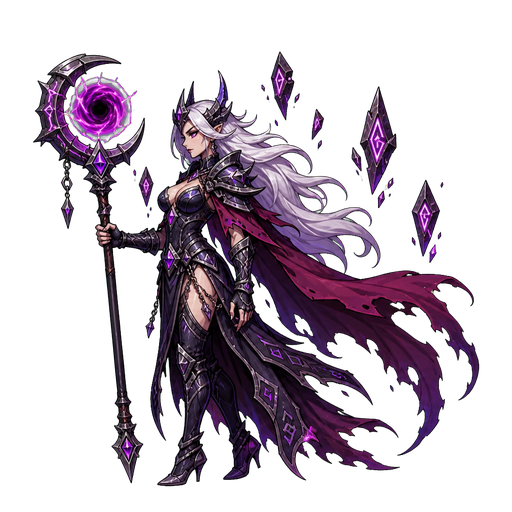
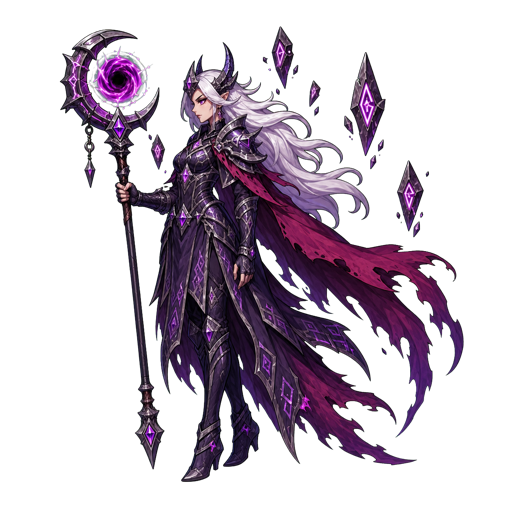
feat: animate grammar boss fighters

diff --git a/game2/index.html b/game2/index.html
@@ -59,7 +59,8 @@ canvas#c{position:absolute;inset:0;width:100%;height:100%;}
 /* ── CHARACTERS ── */
 #hero-wrap{position:absolute;left:8%;bottom:26%;transform-origin:bottom center;transition:left .35s cubic-bezier(.22,1,.36,1), transform .15s;}
 #boss-wrap{position:absolute;right:8%;bottom:26%;transform-origin:bottom center;transition:right .35s cubic-bezier(.22,1,.36,1), transform .15s;}
-#hero-img,#boss-img{background-repeat:no-repeat;background-position:0 0;transform-origin:bottom center;will-change:background-position,transform,filter;}
+#hero-wrap::after,#boss-wrap::after{content:"";position:absolute;z-index:0;left:50%;bottom:-5px;width:64%;height:15px;transform:translateX(-50%);border-radius:50%;background:radial-gradient(ellipse,rgba(0,0,0,.72) 0%,rgba(0,0,0,.38) 48%,transparent 74%);filter:blur(1px);}
+#hero-img,#boss-img{position:relative;z-index:1;background-repeat:no-repeat;background-position:0 0;transform-origin:bottom center;will-change:background-position,transform,filter;}
 #hero-img{filter:drop-shadow(0 8px 22px rgba(14,165,233,.45));}
 #boss-img{filter:drop-shadow(0 10px 26px rgba(239,68,68,.5));}
 @keyframes dmgFlash{0%{filter:brightness(1)}28%{filter:brightness(2.6) drop-shadow(0 0 30px #fff)}100%{filter:brightness(1)}}
@@ -510,27 +511,24 @@ const ctx = canvas.getContext('2d');
 let CW = 0, CH = 0;
 // 바닥선 위치(화면 높이 대비) — setCharSprites에서 실제 캐릭터 발 위치로 동기화.
 let GROUND_FRAC = 0.72;
-// 세로로 긴 화면일수록 arena(캐릭터)를 위로 올려 가운데로. 가로/PC는 그대로.
-function arenaBasePct() {
-  const ar = window.innerHeight / Math.max(1, window.innerWidth);
-  return ar <= 1.0 ? 0 : Math.min(18, (ar - 1.0) * 24);  // 세로비율↑ → 최대 18% 위로
-}
 function updateGround() {
   const arena = document.getElementById('arena');
-  if (arena) arena.style.bottom = arenaBasePct() + '%';
+  if (arena) arena.style.bottom = '0';
   markGroundDirty();
 }
-// ── 문제 팝업이 뜨면 아레나를 팝업 위로 끌어올려 전투가 항상 보이게 한다 ──
+// 가로 화면은 배경 발판에 고정한다. 세로 폰만 문제창 바로 위 바닥선으로 올려
+// 캐릭터가 문제창 뒤에 완전히 가려지지 않게 한다.
 function liftArenaForQpop() {
   const arena = document.getElementById('arena');
   const qp = document.getElementById('qpop');
   if (!arena || !qp) return;
-  const vh = window.innerHeight;
-  const feetAbove = vh * 0.72 * 0.26;          // hero-wrap bottom:26% (arena 높이 72vh 기준)
-  let target = Math.max(vh * arenaBasePct() / 100, qp.offsetHeight + 20 - feetAbove);
-  target = Math.min(target, vh * 0.42);        // HUD와 겹치지 않게 상한
-  arena.style.bottom = target + 'px';
-  markGroundDirty();
+  if (window.innerWidth < 600 && window.innerHeight > window.innerWidth) {
+    const feetAbove = arena.offsetHeight * 0.26;
+    arena.style.bottom = Math.max(0, qp.offsetHeight + 22 - feetAbove) + 'px';
+    markGroundDirty();
+    return;
+  }
+  updateGround();
 }
 function restoreArena() {
   if (GS && GS.practice && GS.practiceDone < GS.practiceTotal) return;  // 연습 중엔 연속 출제라 내리지 않음
@@ -1121,21 +1119,31 @@ const SPRITE_DEFS = {
     }},
 };
 
-function hdFighter(file,scale,portrait=file){
-  const still={file,n:1,fps:9,loop:true};
-  const once={file,n:1,fps:9,loop:false,next:'idle'};
-  return {base:'assets/hd-v1/',portrait:'assets/hd-v1/'+portrait,fw:512,fh:512,scale,flip:false,footPad:0,anims:{idle:still,run:still,atk:once,atk2:once,special:once,hurt:once,death:{file,n:1,fps:8,loop:false,hold:true}}};
+function animatedHdFighter(name,portrait,scale){
+  const file=action=>`${name}/${action}.png`;
+  return {
+    base:'assets/hd-v2/',portrait:'assets/hd-v1/'+portrait,fw:313,fh:313,scale,flip:false,footPad:8,
+    anims:{
+      idle:{file:file('idle'),n:4,fps:6,loop:true},
+      run:{file:file('run'),n:4,fps:11,loop:true},
+      atk:{file:file('attack'),n:4,fps:12,loop:false,next:'idle'},
+      atk2:{file:file('attack'),n:4,fps:14,loop:false,next:'idle'},
+      special:{file:file('attack'),n:4,fps:10,loop:false,next:'idle'},
+      hurt:{file:file('hurt'),n:4,fps:10,loop:false,next:'idle'},
+      death:{file:file('hurt'),n:4,fps:7,loop:false,hold:true},
+    }
+  };
 }
 const HD_SPRITE_DEFS={
-  hero_moonblade:hdFighter('hero-moonblade.png',.48),
-  hero_nebula:hdFighter('hero-nebula.png',.49),
-  hero_phoenix:hdFighter('hero-phoenix.png',.50),
-  jester:hdFighter('ironmask-jester.png',.49),
-  bloom:hdFighter('bloom-colossus.png',.52),
-  bone:hdFighter('bone-samurai.png',.50),
-  manta:hdFighter('void-manta.png',.55),
-  sorceress:hdFighter('rift-sorceress.png',.50),
-  dragonlord:hdFighter('obsidian-dragonlord.png',.55),
+  hero_moonblade:animatedHdFighter('hero-moonblade','hero-moonblade.png',.78),
+  hero_nebula:animatedHdFighter('hero-nebula','hero-nebula.png',.80),
+  hero_phoenix:animatedHdFighter('hero-phoenix','hero-phoenix.png',.82),
+  jester:animatedHdFighter('ironmask-jester','ironmask-jester.png',.80),
+  bloom:animatedHdFighter('bloom-colossus','bloom-colossus.png',.85),
+  bone:animatedHdFighter('bone-samurai','bone-samurai.png',.82),
+  manta:animatedHdFighter('void-manta','void-manta.png',.90),
+  sorceress:animatedHdFighter('rift-sorceress','rift-sorceress.png',.82),
+  dragonlord:animatedHdFighter('obsidian-dragonlord','obsidian-dragonlord.png',.90),
 };
 const HERO_SPRITE=['hero_moonblade','hero_nebula','hero_phoenix'];
 const BOSS_SPRITE=['jester','sorceress','dragonlord'];

diff --git a/game2/assets/hd-v2/prepare_sheets.py b/game2/assets/hd-v2/prepare_sheets.py
@@ -1,0 +1,52 @@
+#!/usr/bin/env python3
+"""Split a chroma-keyed 4x4 atlas into four horizontal animation strips."""
+
+from pathlib import Path
+import sys
+
+from PIL import Image
+
+
+ACTIONS = ("idle", "run", "attack", "hurt")
+
+
+def main() -> None:
+    if len(sys.argv) != 3:
+        raise SystemExit("usage: prepare_sheets.py ATLAS.png OUTPUT_DIR")
+
+    atlas_path = Path(sys.argv[1])
+    output_dir = Path(sys.argv[2])
+    image = Image.open(atlas_path).convert("RGBA")
+
+    side = min(image.size)
+    side -= side % 4
+    left = (image.width - side) // 2
+    top = (image.height - side) // 2
+    image = image.crop((left, top, left + side, top + side))
+    frame = side // 4
+
+    output_dir.mkdir(parents=True, exist_ok=True)
+    for row, action in enumerate(ACTIONS):
+        cells = []
+        for column in range(4):
+            cell = image.crop((column * frame, row * frame, (column + 1) * frame, (row + 1) * frame))
+            alpha_box = cell.getchannel("A").getbbox()
+            if alpha_box:
+                bottom_pad = frame - alpha_box[3]
+                shift_y = bottom_pad - 8
+                if shift_y:
+                    aligned = Image.new("RGBA", cell.size)
+                    aligned.alpha_composite(cell, (0, shift_y))
+                    cell = aligned
+            cells.append(cell)
+
+        strip = Image.new("RGBA", (side, frame))
+        for column, cell in enumerate(cells):
+            strip.alpha_composite(cell, (column * frame, 0))
+        strip.save(output_dir / f"{action}.png", optimize=True)
+
+    print(f"frames={frame}x{frame}; strips={side}x{frame}; actions={','.join(ACTIONS)}")
+
+
+if __name__ == "__main__":
+    main()
